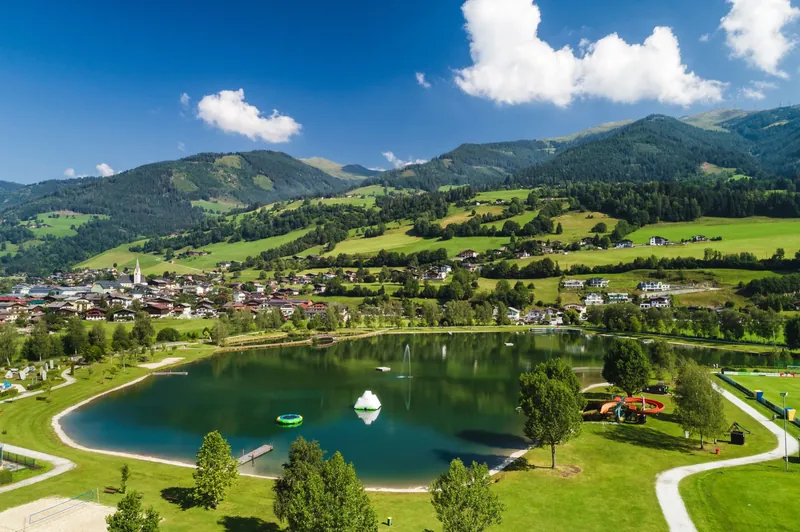
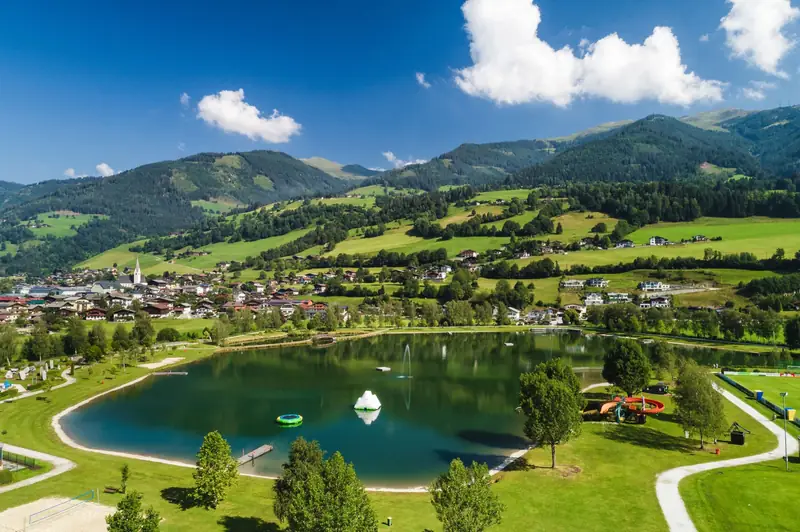
Perf: Bildoptimierung + Meta Pixel 3s Verzoegerung
- dji_fly: srcset mit 500w-Version (136KB -> 64KB auf Mobile)
- hero-800.webp: Qualitaet 75 -> 70 (75KB -> 57KB)
- activity-eisbaden.webp: Qualitaet 78 -> 70 (173KB -> 146KB)
- Meta Pixel: 3s verzoegert geladen (blockiert TBT nicht mehr)

diff --git a/index.html b/index.html
@@ -13,7 +13,7 @@
   <link rel="dns-prefetch" href="https://connect.facebook.net">
   <link rel="dns-prefetch" href="https://iframe.mediadelivery.net">
   <!-- Preload Hero-Bild (LCP) -->
-  <link rel="preload" as="image" href="assets/images/hero.webp?v=2" imagesrcset="assets/images/hero-400.webp?v=2 400w, assets/images/hero-800.webp?v=2 800w, assets/images/hero.webp?v=2 1920w" imagesizes="100vw" fetchpriority="high">
+  <link rel="preload" as="image" href="assets/images/hero.webp?v=2" imagesrcset="assets/images/hero-400.webp?v=2 400w, assets/images/hero-800.webp?v=3 800w, assets/images/hero.webp?v=2 1920w" imagesizes="100vw" fetchpriority="high">
   <!-- Fonts: async laden — blockiert kein Rendering mehr -->
   <link rel="preload" href="https://fonts.googleapis.com/css2?family=Outfit:wght@600;700;800&family=DM+Sans:opsz,wght@9..40,400;9..40,500;9..40,600&display=swap" as="style" onload="this.onload=null;this.rel='stylesheet'">
   <noscript><link rel="stylesheet" href="https://fonts.googleapis.com/css2?family=Outfit:wght@600;700;800&family=DM+Sans:opsz,wght@9..40,400;9..40,500;9..40,600&display=swap"></noscript>
@@ -764,7 +764,7 @@
 
     /* Aktivitäten-Fotos */
     .bento-1 .bento-bg { background: #2D5A3D url('assets/images/activity-wandern.webp?v=2') center/cover no-repeat; }
-    .bento-2 .bento-bg { background: #1A3550 url('assets/images/activity-eisbaden.webp?v=2') center/cover no-repeat; }
+    .bento-2 .bento-bg { background: #1A3550 url('assets/images/activity-eisbaden.webp?v=3') center/cover no-repeat; }
     .bento-3 .bento-bg { background: #4A2810 url('assets/images/activity-sport.webp?v=2') center/cover no-repeat; }
     .bento-4 .bento-bg { background: #2A3E1A url('assets/images/activity-workshops.webp?v=2') center/cover no-repeat; }
 
@@ -2339,7 +2339,7 @@
 
       <div class="hero-photo-wrap" aria-hidden="true">
         <img src="assets/images/hero.webp?v=2"
-             srcset="assets/images/hero-400.webp?v=2 400w, assets/images/hero-800.webp?v=2 800w, assets/images/hero.webp?v=2 1920w"
+             srcset="assets/images/hero-400.webp?v=2 400w, assets/images/hero-800.webp?v=3 800w, assets/images/hero.webp?v=2 1920w"
              sizes="100vw"
              alt="Luftaufnahme der österreichischen Alpen — grüne Täler und kristallklare Seen"
              class="hero-photo"
@@ -2468,7 +2468,7 @@
 
           <div class="r d2">
             <div class="retreat-img-card">
-              <img src="assets/images/dji_fly_20250913_143428_0171_1758134322249_timed.webp?v=2" alt="Gruppe am Gipfelkreuz beim Sport &amp; Abenteuerreise Retreat" class="retreat-img" loading="lazy" width="1400" height="935">
+              <img src="assets/images/dji_fly_20250913_143428_0171_1758134322249_timed.webp?v=3" srcset="assets/images/dji_fly_500.webp?v=2 500w, assets/images/dji_fly_20250913_143428_0171_1758134322249_timed.webp?v=3 787w" sizes="(max-width:768px) 100vw, 400px" alt="Gruppe am Gipfelkreuz beim Sport &amp; Abenteuerreise Retreat" class="retreat-img" loading="lazy" width="1400" height="935">
               <div class="floating-badge" aria-hidden="true">
                 <div class="badge-icon">
                   <svg width="20" height="20" viewBox="0 0 24 24" fill="none" stroke="currentColor" stroke-width="2" stroke-linecap="round">
@@ -2514,7 +2514,7 @@
           </article>
 
           <!-- Eisbaden -->
-          <!-- FOTO EINFÜGEN: assets/images/activity-eisbaden.webp?v=2 -->
+          <!-- FOTO EINFÜGEN: assets/images/activity-eisbaden.webp?v=3 -->
           <article class="bento-card bento-2 r d1" aria-label="Eisbaden">
             <div class="bento-bg" role="img" aria-label="Eisbaden in kristallklarem Wasser"></div>
             <div class="bento-overlay" aria-hidden="true"></div>
@@ -4142,18 +4142,22 @@
     </svg>
   </a>
 
-  <!-- Meta Pixel Base Code — am Body-Ende für bessere FCP -->
+  <!-- Meta Pixel — verzögert nach 3s (kein Einfluss auf Tracking-Qualität) -->
   <script>
-  !function(f,b,e,v,n,t,s)
-  {if(f.fbq)return;n=f.fbq=function(){n.callMethod?
-  n.callMethod.apply(n,arguments):n.queue.push(arguments)};
-  if(!f._fbq)f._fbq=n;n.push=n;n.loaded=!0;n.version='2.0';
-  n.queue=[];t=b.createElement(e);t.async=!0;
-  t.src=v;s=b.getElementsByTagName(e)[0];
-  s.parentNode.insertBefore(t,s)}(window, document,'script',
-  'https://connect.facebook.net/en_US/fbevents.js');
-  fbq('init', '1855934488520701');
-  fbq('track', 'PageView');
+  window.addEventListener('DOMContentLoaded', function() {
+    setTimeout(function() {
+      !function(f,b,e,v,n,t,s)
+      {if(f.fbq)return;n=f.fbq=function(){n.callMethod?
+      n.callMethod.apply(n,arguments):n.queue.push(arguments)};
+      if(!f._fbq)f._fbq=n;n.push=n;n.loaded=!0;n.version='2.0';
+      n.queue=[];t=b.createElement(e);t.async=!0;
+      t.src=v;s=b.getElementsByTagName(e)[0];
+      s.parentNode.insertBefore(t,s)}(window, document,'script',
+      'https://connect.facebook.net/en_US/fbevents.js');
+      fbq('init', '1855934488520701');
+      fbq('track', 'PageView');
+    }, 3000);
+  });
   </script>
   <noscript><img height="1" width="1" style="display:none"
   src="https://www.facebook.com/tr?id=1855934488520701&ev=PageView&noscript=1"
